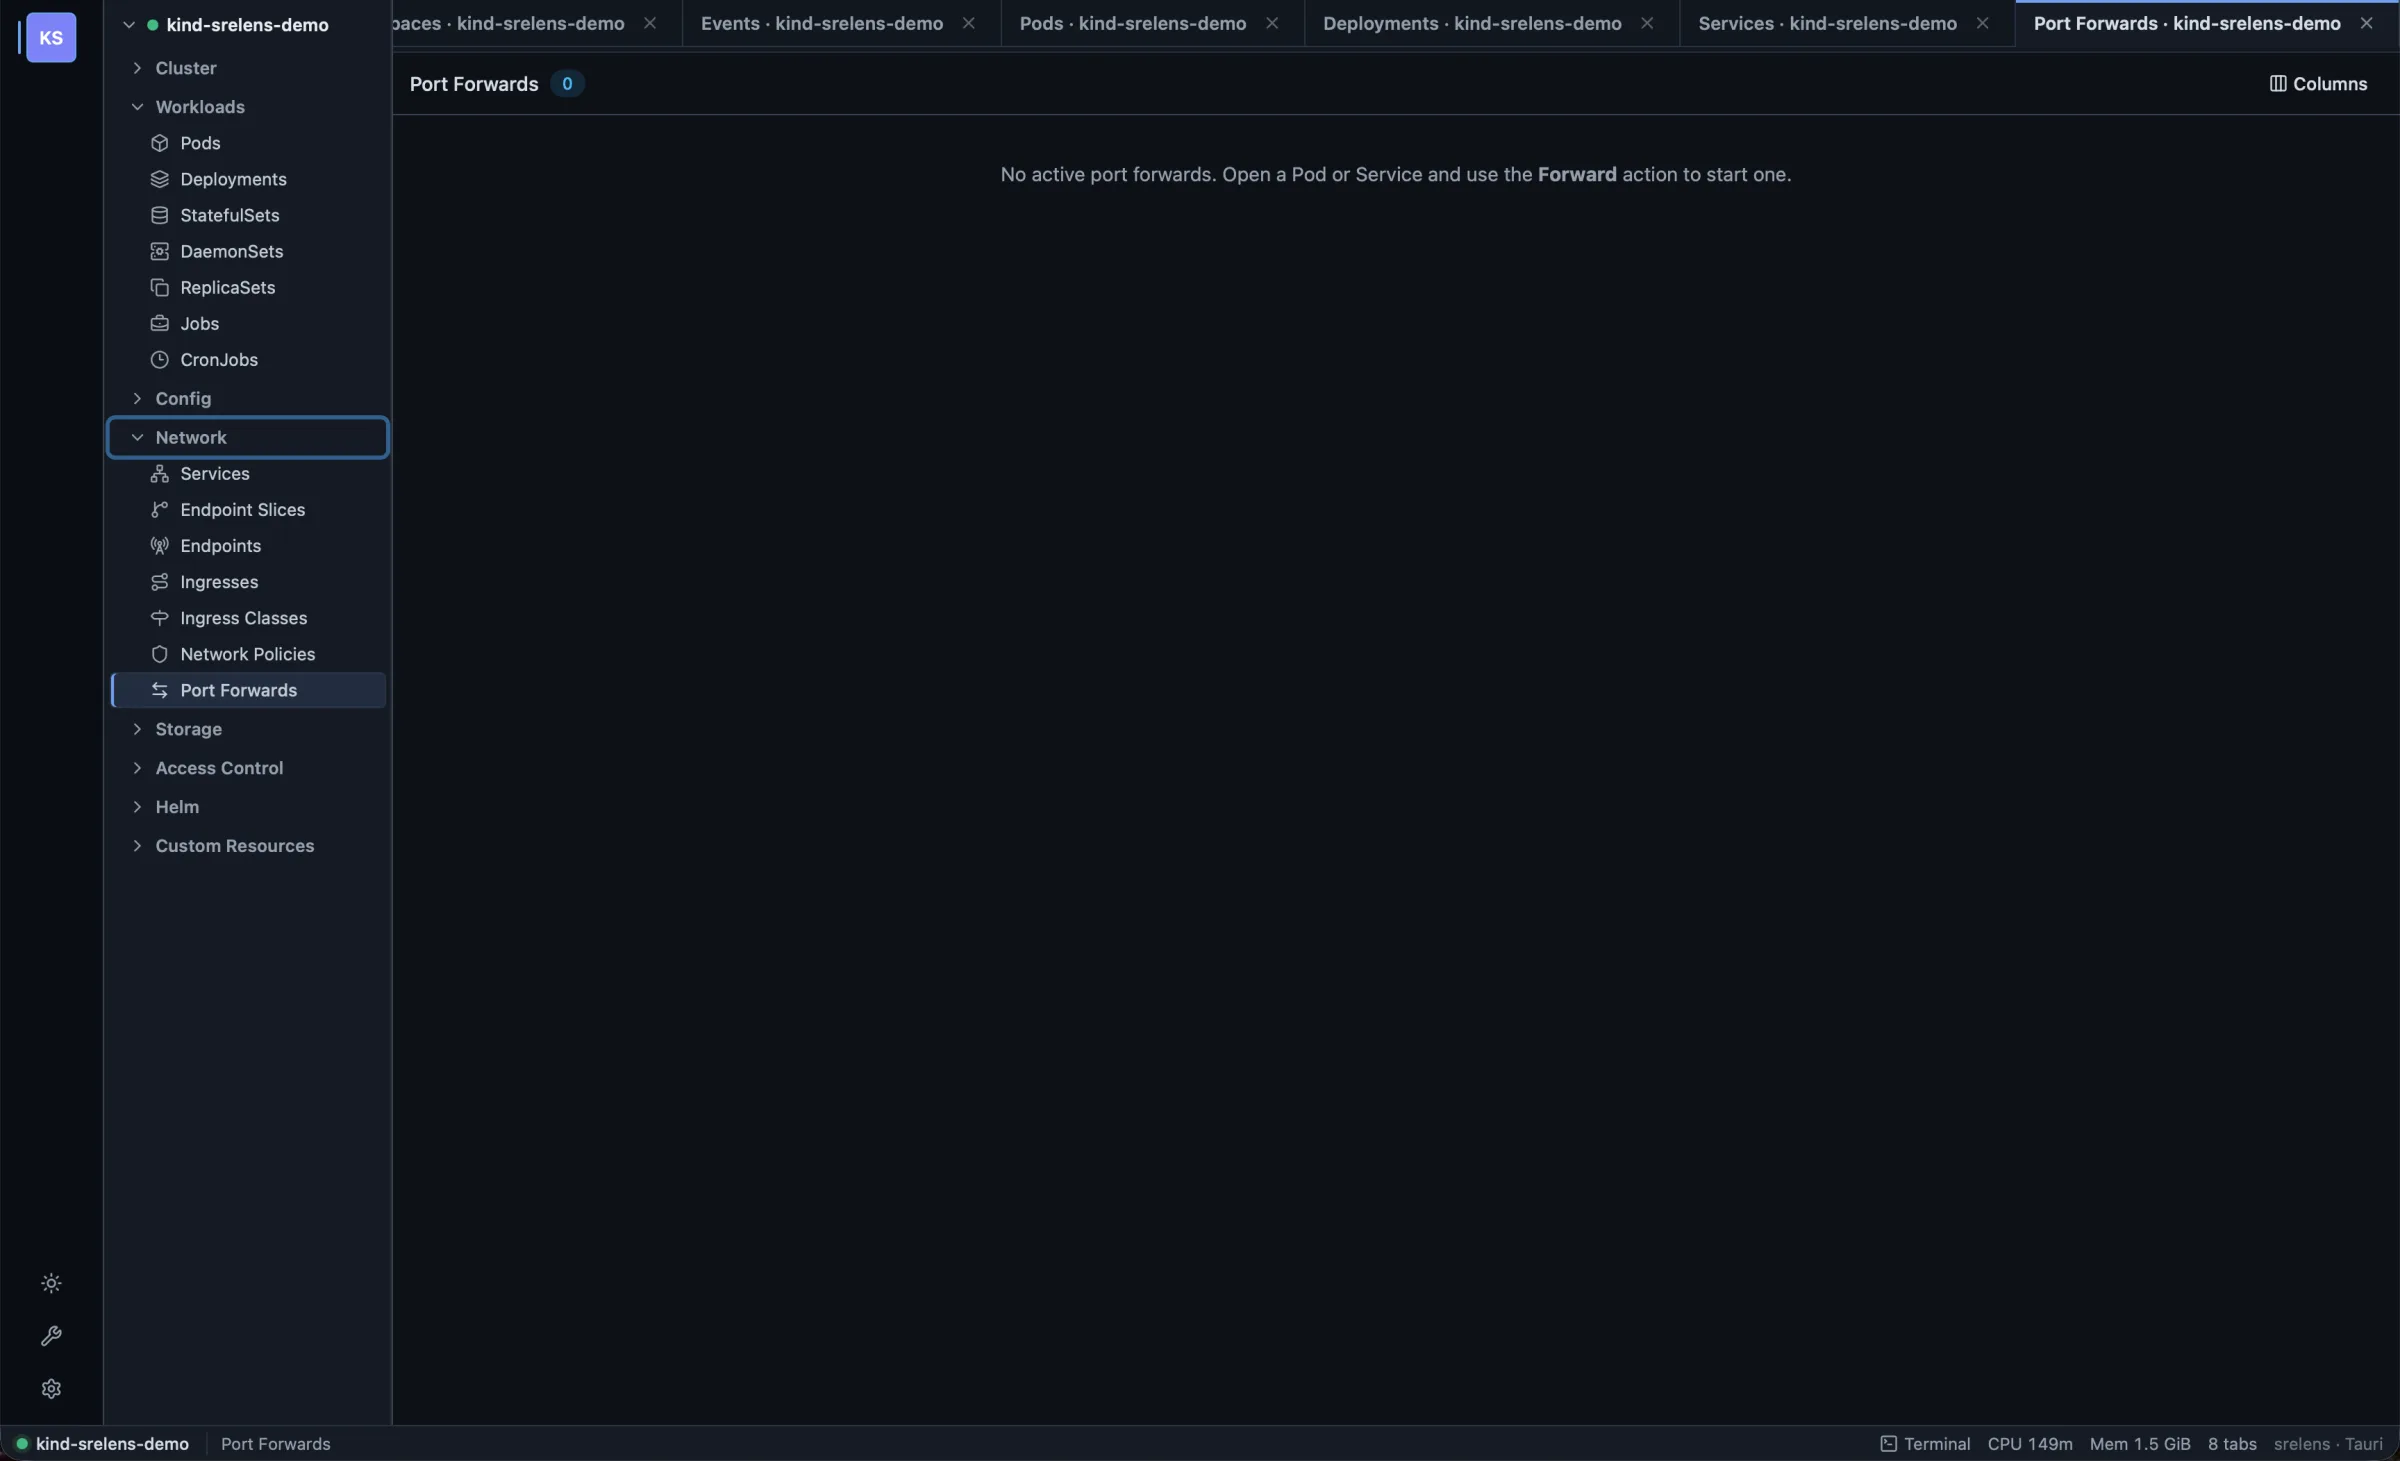
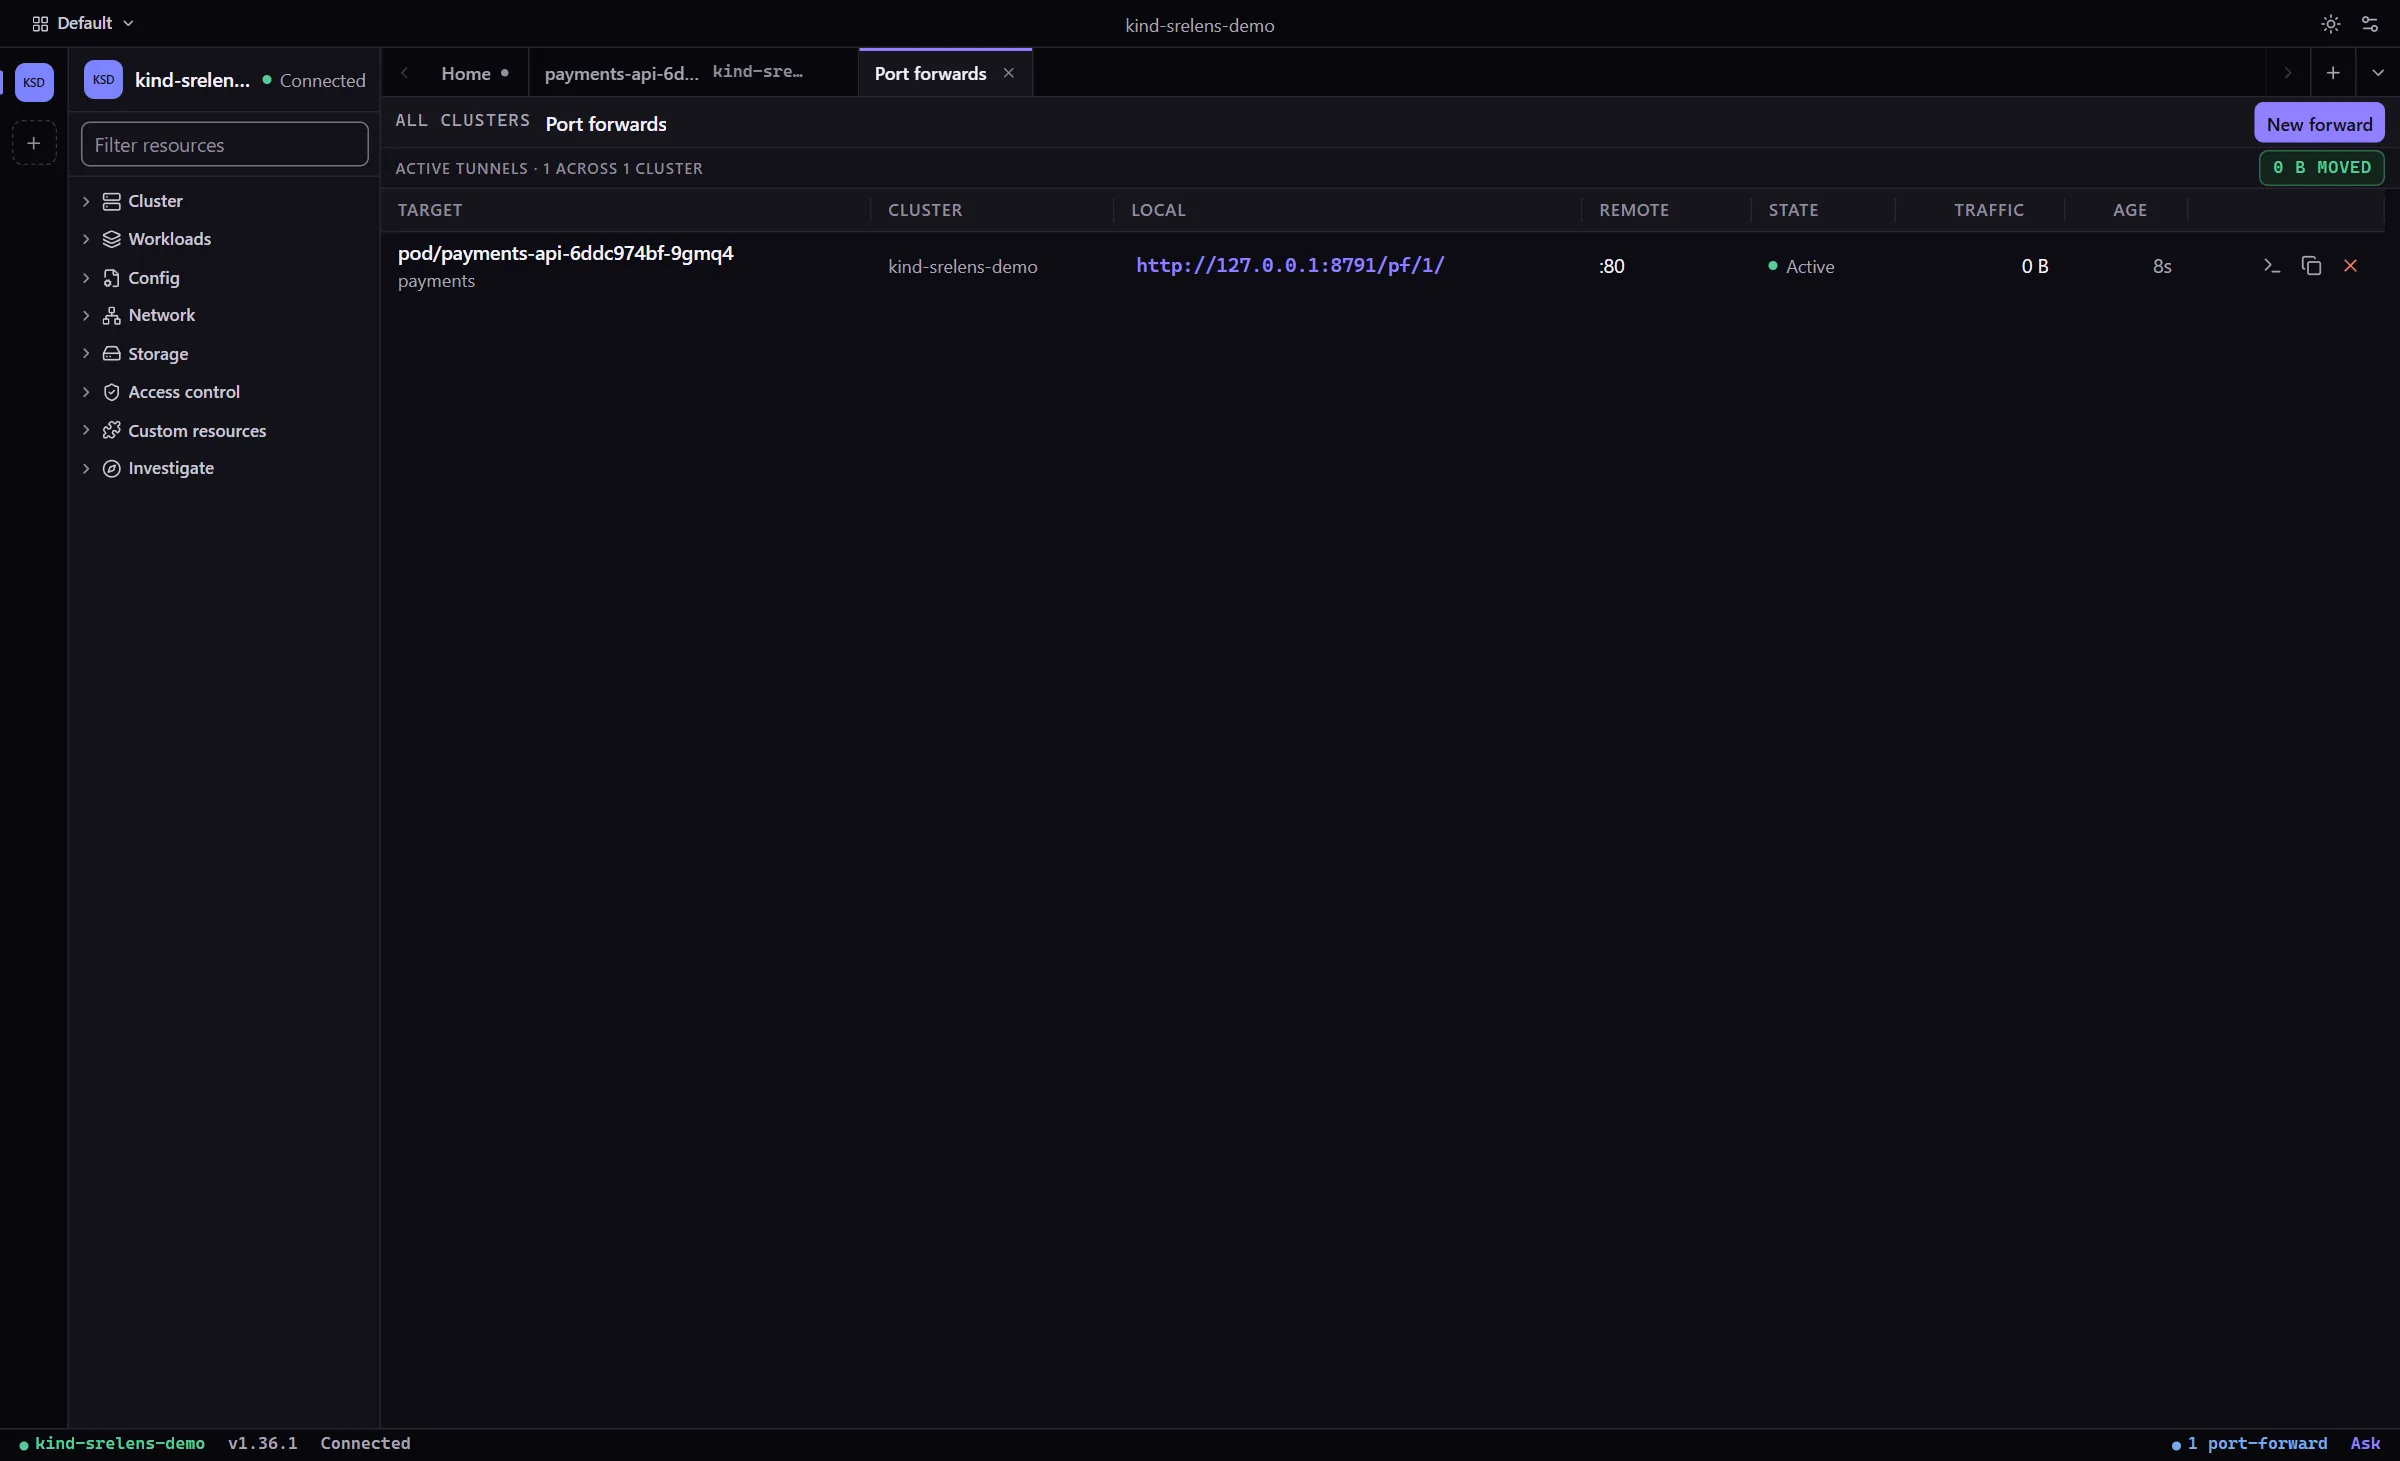
feat(shots): show port forwards in the new UI and drop the old MCP image from the llms inventory
Recapture dark and light port-forwards in web mode (the Local column shows the
srelens server proxy URL), say so in the /features/ alts, and make llms-full.txt
match: the port-forwards line equals the new alt, dark-mcp.webp (on no page) gives
way to a line for the recorded MCP session.

diff --git a/features/index.html b/features/index.html
@@ -294,9 +294,9 @@
             </div>
             <figure class="shot">
               <img class="shot-dark" src="/assets/shots/dark-port-forwards.webp" width="2400" height="1461" loading="lazy"
-                   alt="srelens port forwards management view in dark theme">
+                   alt="srelens port forwards tab: payments-api port 80 forwarded through the srelens server at http://127.0.0.1:8791/pf/1/">
               <img class="shot-light" src="/assets/shots/light-port-forwards.webp" width="2400" height="1461" loading="lazy"
-                   alt="srelens port forwards management view in light theme with a create-forward action">
+                   alt="srelens port forwards tab: payments-api port 80 forwarded through the srelens server at http://127.0.0.1:8791/pf/1/, light theme">
             </figure>
           </div>
 
